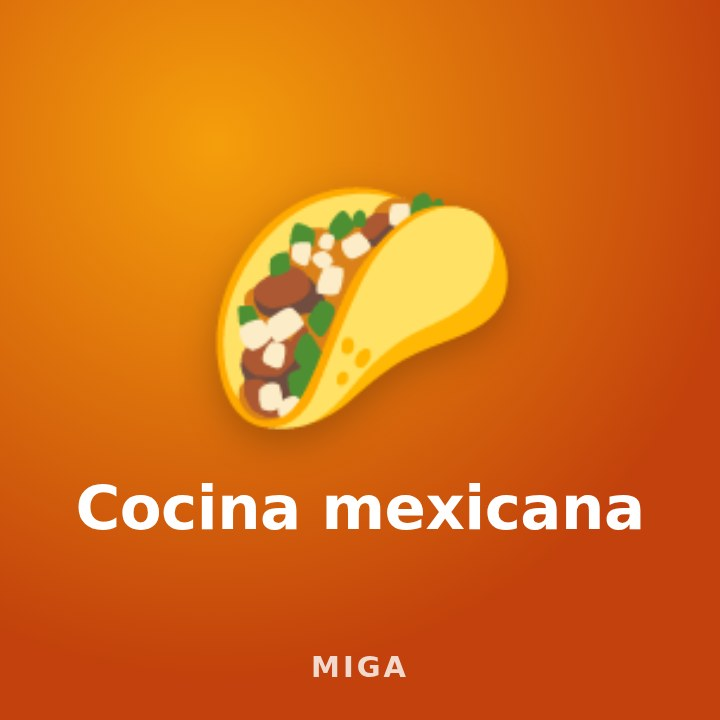
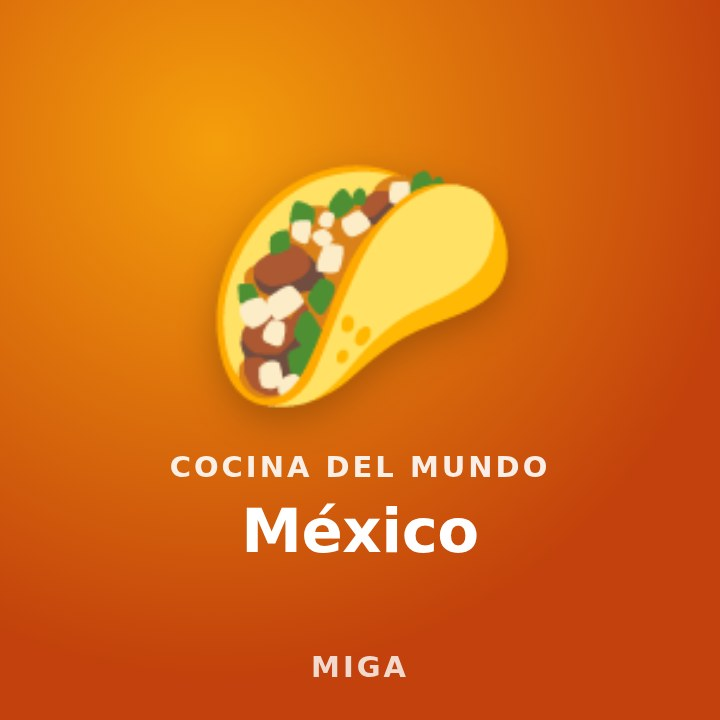
Add the World cuisine packs to the catalogue
Mexico is renamed to "Cocina del mundo: México" (version 2) and the
series gains Indonesia, China, Japan, Spain, Italy, Greece, the United
States and Germany, in Spanish and English.

Claude-Session: https://claude.ai/code/session_01HqWVtiHWfEJkfF8Aye8jGW

Changed region(s): [[0.0917, 0.2139, 0.9167, 0.7944]]

diff --git a/en/index.html b/en/index.html
@@ -217,17 +217,49 @@ volumes:
         <div><h3>Air fryer</h3>
         <p>Recipes made for the air fryer: chips, wings, home-made nuggets, breaded fish, crispy vegetables, meatballs, burgers, ribs and even desserts. With very little oil and the time and temperature for each dish. Times are a guide: every model heats differently.</p></div>
       </article><article class="pack">
+        <img src="../assets/img/packs/american-cooking.jpg" alt="" width="720" height="720" loading="lazy">
+        <div><h3>World cuisine: United States</h3>
+        <p>American home cooking, from the South to New England: mac and cheese, pulled pork, fried chicken, clam chowder, chili, cornbread, pancakes, meatloaf, jambalaya, gumbo, coleslaw, apple pie, chocolate chip cookies, New York cheesecake, cheesesteak, Cobb salad and key lime pie. With measurements in grams.</p></div>
+      </article><article class="pack">
+        <img src="../assets/img/packs/chinese-cooking.jpg" alt="" width="720" height="720" loading="lazy">
+        <div><h3>World cuisine: China</h3>
+        <p>Classics from Sichuan, Cantonese and northern Chinese cooking: kung pao chicken, mapo tofu, jiaozi, sweet and sour pork, hot and sour soup, wontons, chow mein, hong shao rou, dan dan noodles, char siu, steamed fish, spring rolls and congee. With the basic sauces and spices of the Chinese pantry.</p></div>
+      </article><article class="pack">
         <img src="../assets/img/packs/christmas-special.jpg" alt="" width="720" height="720" loading="lazy">
         <div><h3>Christmas special</h3>
         <p>Timeless recipes for Christmas Eve, Christmas Day and Twelfth Night: prawn cocktail, ham croquettes, galets soup, roast lamb, suckling pig, sea bream, hake in green sauce, red cabbage, roscón de Reyes, turrón, polvorones and marzipan. With notes for cooking ahead and for big gatherings.</p></div>
+      </article><article class="pack">
+        <img src="../assets/img/packs/german-cooking.jpg" alt="" width="720" height="720" loading="lazy">
+        <div><h3>World cuisine: Germany</h3>
+        <p>German classics from north to south: schnitzel, rouladen, sauerbraten, Swabian potato salad, Bratkartoffeln, Kartoffelpuffer, Käsespätzle, Königsberger Klopse, currywurst, Frikadellen, lentil and split pea stews, potato soup, Flammkuchen, pretzels, Maultaschen, Obatzda and sweets such as apple cake, Black Forest gateau and rote Grütze.</p></div>
+      </article><article class="pack">
+        <img src="../assets/img/packs/greek-cooking.jpg" alt="" width="720" height="720" loading="lazy">
+        <div><h3>World cuisine: Greece</h3>
+        <p>Greek cooking beyond the salad and tzatziki: souvlaki, spanakopita, pastitsio, gemista, fasolada, avgolemono, dolmades, keftedes, briam, fava, kleftiko, stifado, saganaki cheese, prawns with feta, gigantes, taramasalata, melitzanosalata, spanakorizo, loukoumades and baklava. With olive oil, lemon, oregano and dill.</p></div>
+      </article><article class="pack">
+        <img src="../assets/img/packs/indonesian-cooking.jpg" alt="" width="720" height="720" loading="lazy">
+        <div><h3>World cuisine: Indonesia</h3>
+        <p>Everyday and festive dishes from Indonesia: nasi goreng, mie goreng, chicken satay with peanut sauce, gado-gado, rendang, soto ayam, opor ayam, bakso, sayur lodeh, sambal and sweets such as pisang goreng, martabak and klepon. With substitutes for the less common ingredients.</p></div>
+      </article><article class="pack">
+        <img src="../assets/img/packs/italian-cooking.jpg" alt="" width="720" height="720" loading="lazy">
+        <div><h3>World cuisine: Italy</h3>
+        <p>The great classics of Italy&#x27;s regions: carbonara, amatriciana, cacio e pepe, lasagne, pasta alla Norma, spaghetti with clams, risotto alla milanese, ossobuco, saltimbocca, parmigiana, minestrone, pasta e fagioli, pizza margherita, focaccia, arancini, vitello tonnato, caponata, tiramisu and panna cotta. Made the Italian way, with no cream in the carbonara.</p></div>
+      </article><article class="pack">
+        <img src="../assets/img/packs/japanese-cooking.jpg" alt="" width="720" height="720" loading="lazy">
+        <div><h3>World cuisine: Japan</h3>
+        <p>Japanese home cooking: miso soup, chicken teriyaki, gyoza, ramen, tonkatsu, oyakodon, onigiri, tamagoyaki, okonomiyaki, yakitori, tempura, maki rolls, karaage, nikujaga, yakisoba, gyudon, Japanese curry and dorayaki. With dashi and the basic sauces explained step by step.</p></div>
       </article><article class="pack">
         <img src="../assets/img/packs/mediterranean-cooking.jpg" alt="" width="720" height="720" loading="lazy">
         <div><h3>Mediterranean cooking</h3>
         <p>Recipes from around the Mediterranean: Spain, Italy, Greece, Lebanon, Morocco and Tunisia. Gazpacho, paella, Spanish omelette, moussaka, hummus, falafel, shakshuka, risotto, tagine and more, with olive oil, seasonal vegetables and pulses.</p></div>
       </article><article class="pack">
         <img src="../assets/img/packs/mexican-cooking.jpg" alt="" width="720" height="720" loading="lazy">
-        <div><h3>Mexican cooking</h3>
+        <div><h3>World cuisine: Mexico</h3>
         <p>Mexican classics to cook at home: tacos al pastor, cochinita pibil, pozole, chilaquiles, enchiladas, salsas, guacamole, aguas frescas and flan. With easy-to-find ingredients and alternatives where needed.</p></div>
+      </article><article class="pack">
+        <img src="../assets/img/packs/spanish-cooking.jpg" alt="" width="720" height="720" loading="lazy">
+        <div><h3>World cuisine: Spain</h3>
+        <p>A tour of Spain&#x27;s regional cooking: cocido madrileño, fabada, lentil stew, marmitako, bacalao al pil pil, garlic chicken, black rice, fideuà, oven-baked rice, escalivada, Rioja-style potatoes, Galician broth, papas arrugadas with mojo, ajoblanco, Galician empanada, migas, oxtail stew, torrijas, rice pudding and Santiago almond cake. Without repeating the dishes in the Mediterranean, tapas and Christmas packs.</p></div>
       </article><article class="pack">
         <img src="../assets/img/packs/spanish-tapas.jpg" alt="" width="720" height="720" loading="lazy">
         <div><h3>Spanish tapas</h3>

diff --git a/index.html b/index.html
@@ -213,12 +213,44 @@ volumes:
         <div><h3>Cenas en 20 minutos</h3>
         <p>Cenas caseras que están en la mesa en 20 minutos o menos, con ingredientes de cualquier supermercado: tortillas, revueltos, pasta, pescado a la plancha, wok de pollo, cremas de verduras, ensaladas completas y pizzas exprés. Para los días en que no apetece complicarse.</p></div>
       </article><article class="pack">
+        <img src="assets/img/packs/cocina-alemana.jpg" alt="" width="720" height="720" loading="lazy">
+        <div><h3>Cocina del mundo: Alemania</h3>
+        <p>Los clásicos de la cocina alemana de norte a sur: schnitzel, rouladen, sauerbraten, ensalada de patata suaba, bratkartoffeln, kartoffelpuffer, käsespätzle, königsberger klopse, currywurst, frikadellen, potajes de lentejas y de guisantes, sopa de patata, flammkuchen, brezeln, maultaschen, obatzda y postres como el pastel de manzana, la tarta Selva Negra y la rote grütze.</p></div>
+      </article><article class="pack">
+        <img src="assets/img/packs/cocina-china.jpg" alt="" width="720" height="720" loading="lazy">
+        <div><h3>Cocina del mundo: China</h3>
+        <p>Clásicos de las cocinas de Sichuan, Cantón y el norte de China: pollo kung pao, mapo tofu, jiaozi, cerdo agridulce, sopa agripicante, wonton, chow mein, hong shao rou, dan dan mian, char siu, pescado al vapor, rollitos de primavera y congee. Con las salsas y especias básicas de la despensa china.</p></div>
+      </article><article class="pack">
+        <img src="assets/img/packs/cocina-espanola.jpg" alt="" width="720" height="720" loading="lazy">
+        <div><h3>Cocina del mundo: España</h3>
+        <p>Un recorrido por las cocinas regionales de España: cocido madrileño, fabada, lentejas, marmitako, bacalao al pil pil, pollo al ajillo, arroz negro, fideuá, arroz al horno, escalivada, patatas a la riojana, caldo gallego, papas arrugadas con mojo, ajoblanco, empanada gallega, migas, rabo de toro, torrijas, arroz con leche y tarta de Santiago. Sin repetir los platos de los packs de cocina mediterránea, tapas y Navidad.</p></div>
+      </article><article class="pack">
+        <img src="assets/img/packs/cocina-estadounidense.jpg" alt="" width="720" height="720" loading="lazy">
+        <div><h3>Cocina del mundo: Estados Unidos</h3>
+        <p>La cocina casera de Estados Unidos, del sur a Nueva Inglaterra: macarrones con queso, cerdo desmenuzado, pollo frito, sopa de almejas, chili, pan de maíz, tortitas, pastel de carne, jambalaya, gumbo, ensalada de col, tarta de manzana, galletas con pepitas de chocolate, tarta de queso de Nueva York, cheesesteak, ensalada Cobb y tarta de lima. Con medidas en gramos.</p></div>
+      </article><article class="pack">
+        <img src="assets/img/packs/cocina-griega.jpg" alt="" width="720" height="720" loading="lazy">
+        <div><h3>Cocina del mundo: Grecia</h3>
+        <p>La cocina griega más allá de la ensalada y el tzatziki: souvlaki, spanakopita, pastitsio, gemista, fasolada, avgolemono, dolmades, keftedes, briam, fava, kleftiko, stifado, queso saganaki, gambas con feta, gigantes, taramosalata, melitzanosalata, spanakorizo, loukoumades y baklava. Con aceite de oliva, limón, orégano y eneldo.</p></div>
+      </article><article class="pack">
+        <img src="assets/img/packs/cocina-indonesia.jpg" alt="" width="720" height="720" loading="lazy">
+        <div><h3>Cocina del mundo: Indonesia</h3>
+        <p>Los platos de diario y de fiesta de Indonesia: nasi goreng, mie goreng, satay de pollo con salsa de cacahuete, gado-gado, rendang, soto ayam, opor ayam, bakso, sayur lodeh, sambal y postres como el pisang goreng, el martabak o los klepon. Con equivalencias para los ingredientes menos habituales.</p></div>
+      </article><article class="pack">
+        <img src="assets/img/packs/cocina-italiana.jpg" alt="" width="720" height="720" loading="lazy">
+        <div><h3>Cocina del mundo: Italia</h3>
+        <p>Los grandes clásicos de las regiones de Italia: carbonara, amatriciana, cacio e pepe, lasaña, pasta alla Norma, espaguetis con almejas, risotto a la milanesa, ossobuco, saltimbocca, parmigiana, minestrone, pasta e fagioli, pizza margarita, focaccia, arancini, vitello tonnato, caponata, tiramisú y panna cotta. Hechos como en Italia, sin nata en la carbonara.</p></div>
+      </article><article class="pack">
+        <img src="assets/img/packs/cocina-japonesa.jpg" alt="" width="720" height="720" loading="lazy">
+        <div><h3>Cocina del mundo: Japón</h3>
+        <p>La cocina casera de Japón: sopa de miso, pollo teriyaki, gyoza, ramen, tonkatsu, oyakodon, onigiri, tamagoyaki, okonomiyaki, yakitori, tempura, makis, karaage, nikujaga, yakisoba, gyudon, curry japonés y dorayaki. Con el dashi y las salsas de base explicados paso a paso.</p></div>
+      </article><article class="pack">
         <img src="assets/img/packs/cocina-mediterranea.jpg" alt="" width="720" height="720" loading="lazy">
         <div><h3>Cocina mediterránea</h3>
         <p>Recetas de las orillas del Mediterráneo: España, Italia, Grecia, Líbano, Marruecos y Túnez. Gazpacho, paella, tortilla, musaka, hummus, falafel, shakshuka, risotto, tajín y más, con aceite de oliva, verduras de temporada y legumbres.</p></div>
       </article><article class="pack">
         <img src="assets/img/packs/cocina-mexicana.jpg" alt="" width="720" height="720" loading="lazy">
-        <div><h3>Cocina mexicana</h3>
+        <div><h3>Cocina del mundo: México</h3>
         <p>Clásicos de México para cocinar en casa: tacos al pastor, cochinita pibil, pozole, chilaquiles, enchiladas, salsas, guacamole, aguas frescas y flan. Con ingredientes fáciles de encontrar y alternativas cuando hace falta.</p></div>
       </article><article class="pack">
         <img src="assets/img/packs/especial-navidad.jpg" alt="" width="720" height="720" loading="lazy">
